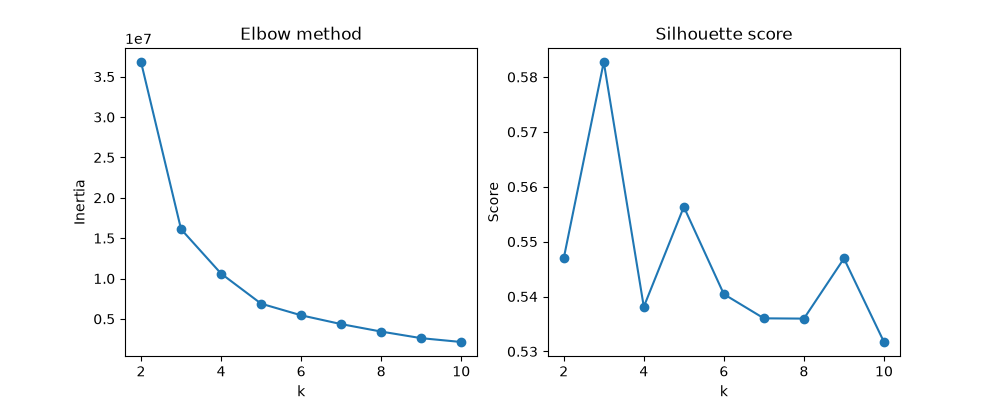
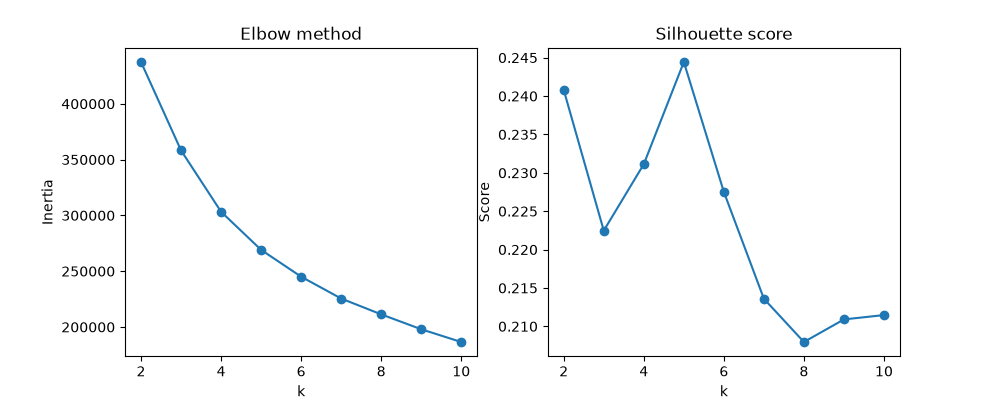
Scale features before K-means and fix loop indentation

diff --git a/clusters.py b/clusters.py
@@ -1,6 +1,7 @@
 import pandas as pd
 from sklearn.cluster import KMeans
 from sklearn.metrics import silhouette_score
+from sklearn.preprocessing import StandardScaler
 import matplotlib.pyplot as plt
 
 tracks_df = pd.read_csv('dataset.csv')
@@ -12,13 +13,17 @@ tracks_df = pd.read_csv('dataset.csv')
 # plt.show()
 
 # Determine the optimal number of clusters using the elbow method and silhouette score
+features = ['valence', 'tempo', 'energy', 'danceability', 'instrumentalness']
+X = StandardScaler().fit_transform(tracks_df[features].dropna()) 
+# Standardize the audio features with StandardScaler so that `tempo` (~60-200) no longer dominates the distance calculation over the 0-1 features (valence, energy, danceability, instrumentalness).
+
 ks = range(2, 11)
 inertias, sils = [], []
-X =tracks_df[['valence', 'tempo', 'energy', 'danceability', 'instrumentalness']]
 for k in ks:
     km = KMeans(n_clusters=k, n_init=10, random_state=42).fit(X)
     inertias.append(km.inertia_)
-    sils.append(silhouette_score(X, km.labels_))
+    # sample_size speeds up the silhouette score calculation for large datasets
+    sils.append(silhouette_score(X, km.labels_, sample_size=10000, random_state=42))
 
 fig, ax = plt.subplots(1, 2, figsize=(10, 4))
 ax[0].plot(ks, inertias, marker="o")
